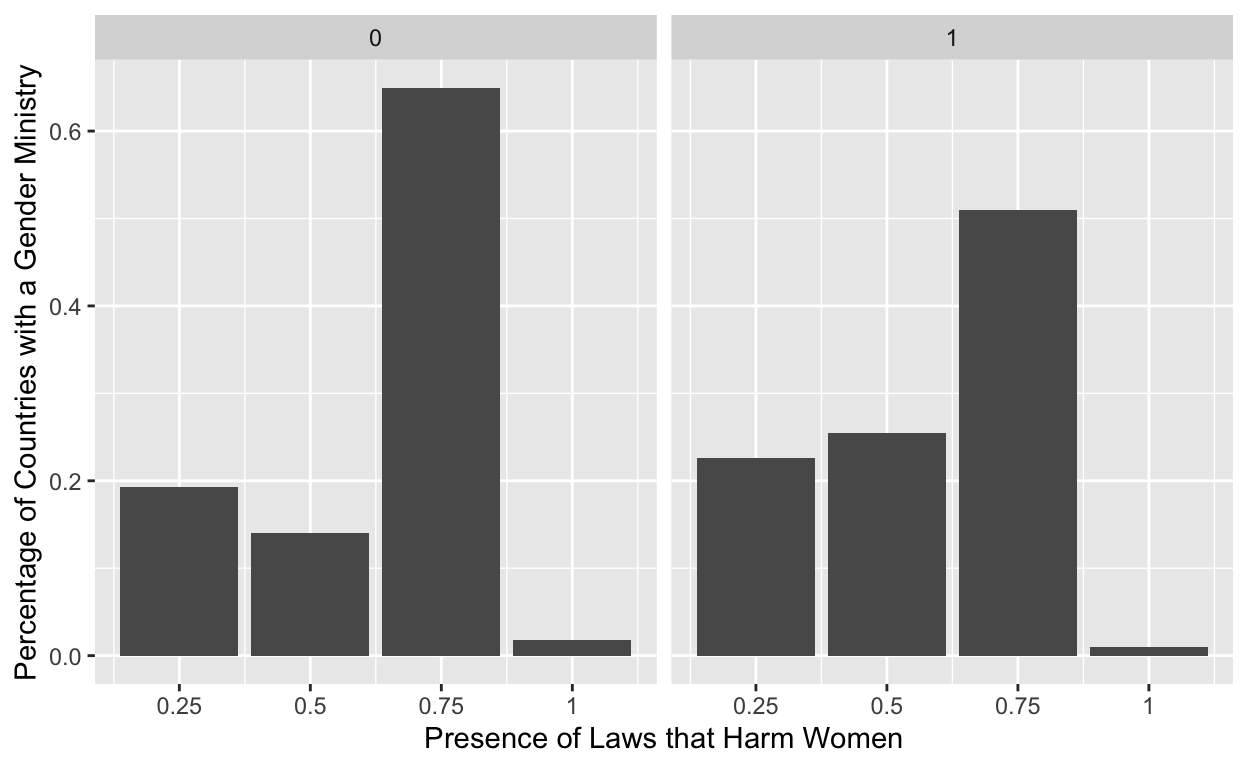
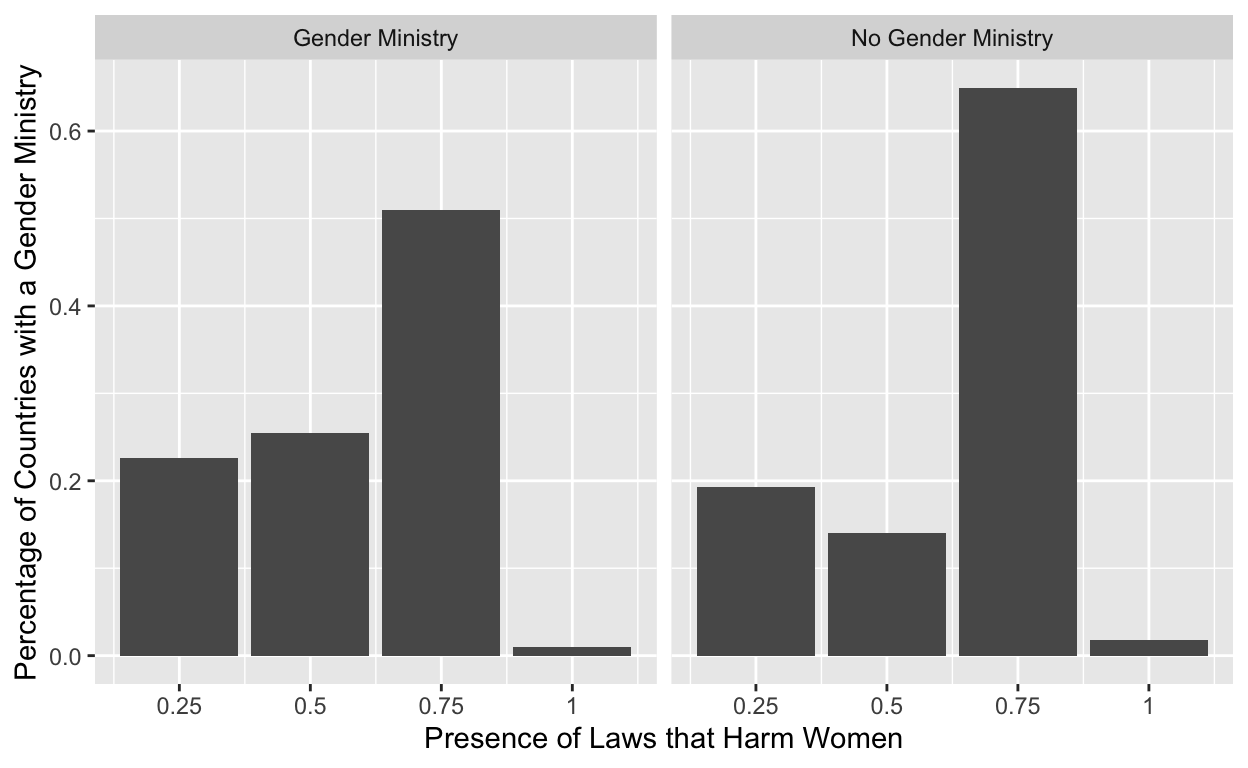
Milestone 4

diff --git a/index.html b/index.html
@@ -115,7 +115,7 @@ code span.wa { color: #5e5e5e; font-style: italic; } /* Warning */
   <!--/radix_placeholder_rmarkdown_metadata-->
   
   <script type="text/json" id="radix-resource-manifest">
-  {"type":"character","attributes":{},"value":["ATTITUDES_PREVALENCE.csv","ATTITUDES.csv","index_files/anchor-4.2.2/anchor.min.js","index_files/bowser-1.9.3/bowser.min.js","index_files/distill-2.2.21/template.v2.js","index_files/figure-html5/unnamed-chunk-4-1.png","index_files/header-attrs-2.16/header-attrs.js","index_files/header-attrs-2.17/header-attrs.js","index_files/jquery-3.6.0/jquery-3.6.0.js","index_files/jquery-3.6.0/jquery-3.6.0.min.js","index_files/jquery-3.6.0/jquery-3.6.0.min.map","index_files/popper-2.6.0/popper.min.js","index_files/tippy-6.2.7/tippy-bundle.umd.min.js","index_files/tippy-6.2.7/tippy-light-border.css","index_files/tippy-6.2.7/tippy.css","index_files/tippy-6.2.7/tippy.umd.min.js","index_files/webcomponents-2.0.0/webcomponents.js","LAWS_ATTITUDES.csv","LAWS.csv","OECD_VAW.csv","PREVALENCE_LAWS.csv","PREVALENCE.csv"]}
+  {"type":"character","attributes":{},"value":["ATTITUDES_PREVALENCE.csv","ATTITUDES.csv","index_files/anchor-4.2.2/anchor.min.js","index_files/bowser-1.9.3/bowser.min.js","index_files/distill-2.2.21/template.v2.js","index_files/figure-html5/unnamed-chunk-4-1.png","index_files/figure-html5/unnamed-chunk-6-1.png","index_files/header-attrs-2.16/header-attrs.js","index_files/header-attrs-2.17/header-attrs.js","index_files/jquery-3.6.0/jquery-3.6.0.js","index_files/jquery-3.6.0/jquery-3.6.0.min.js","index_files/jquery-3.6.0/jquery-3.6.0.min.map","index_files/popper-2.6.0/popper.min.js","index_files/tippy-6.2.7/tippy-bundle.umd.min.js","index_files/tippy-6.2.7/tippy-light-border.css","index_files/tippy-6.2.7/tippy.css","index_files/tippy-6.2.7/tippy.umd.min.js","index_files/webcomponents-2.0.0/webcomponents.js","LAWS_ATTITUDES.csv","LAWS.csv","OECD_VAW.csv","PREVALENCE_LAWS.csv","PREVALENCE.csv"]}
   </script>
   <!--radix_placeholder_navigation_in_header-->
   <!--/radix_placeholder_navigation_in_header-->
@@ -1526,6 +1526,11 @@ code span.wa { color: #5e5e5e; font-style: italic; } /* Warning */
 </div>
 <h2 id="visualization-interpretation">Visualization Interpretation</h2>
 <p>This visualization demonstrates that for countries with a gender ministry, there are fewer countries with harmful laws about violence against women, where the most harmful laws are 1 and the least harmful laws are 0. It is notable that gender ministry is an expansive category here, including countries with a distinct Ministry of Gender, but also countries with a combined ministry, such as Ministry of Family and Gender, or Ministry of Social Issues with gender as a primary focus. Countries without a gender ministry are countries that lack all of these ministry options. Thus, in each category of laws, in categories which mean more harmful laws, including 1 and 0.75 are more highly represented in the countries without a gender ministry or an office tangential to a gender ministry. For countries with fewer harmful laws, including 0.5 and 0.25, countries with a gender ministry or an office adjacent to it are more highly represented.</p>
+<div class="layout-chunk" data-layout="l-body">
+<p><img src="index_files/figure-html5/unnamed-chunk-6-1.png" width="624" /></p>
+</div>
+<h2 id="second-visualization-interpretation">Second Visualization Interpretation</h2>
+<p>This was my first attempt at trying to answer my research question on whether or not having a Ministry of Gender is correlated with better outcomes for women, particularly on violence against women. This visualization demonstrates that the rates of violence against women is similar for countries with and without a Gender Ministry, with higher reported rates of violence for countries with a Gender Ministry, although it is currently unclear whether or not that violence is statistically significant. The prevalence is measured in a percent of women who both experience and report violence against women, ranging from 0 to 100, although no countries reported a rate of 100. However, it is notable to mention that over 30 countries included in the original laws data, displayed in my first visualization, did not submit reports of violence against women, many of which are countries that do not have a gender ministry. Thus, these results could be skewed by the fact that many countries, including those without a Gender Ministry, did not submit and may have interfered with the data. Moreover, this also relies on reported violence against women, which is infamously extremely under-reported, so it is possible that higher reported prevalence of violence against women could actually be positive, since it could mean that women felt safe enough to report violence, which could have been facilitated by the presence of a Gender Ministry.</p>
 <div class="sourceCode" id="cb1"><pre class="sourceCode r distill-force-highlighting-css"><code class="sourceCode r"></code></pre></div>
 <!--radix_placeholder_article_footer-->
 <!--/radix_placeholder_article_footer-->
